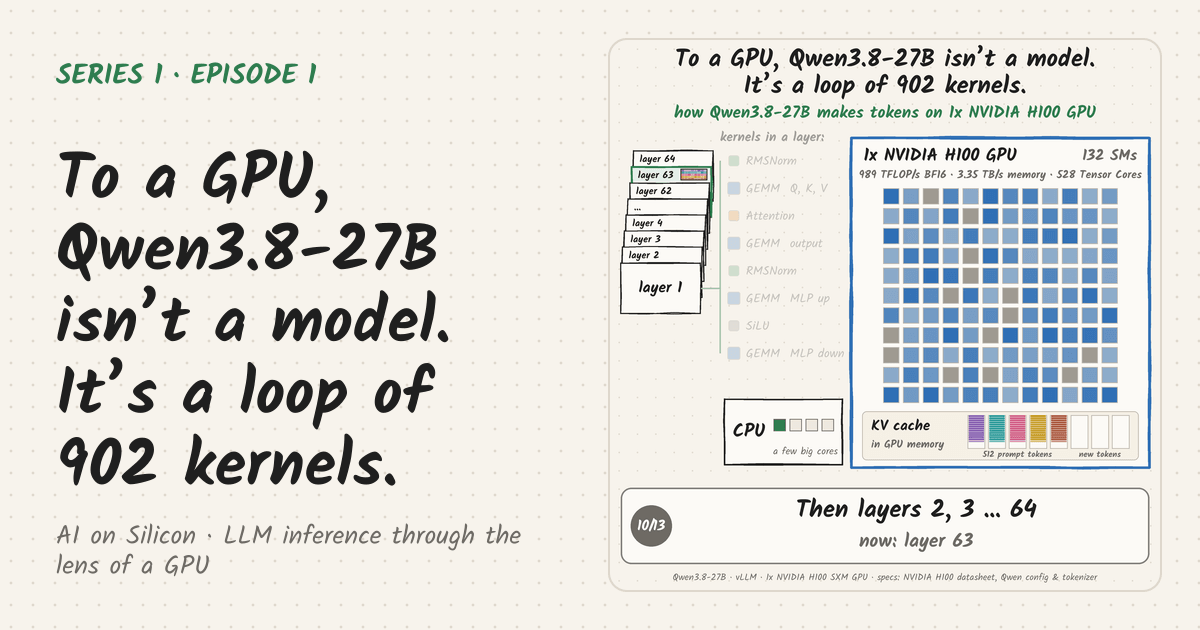
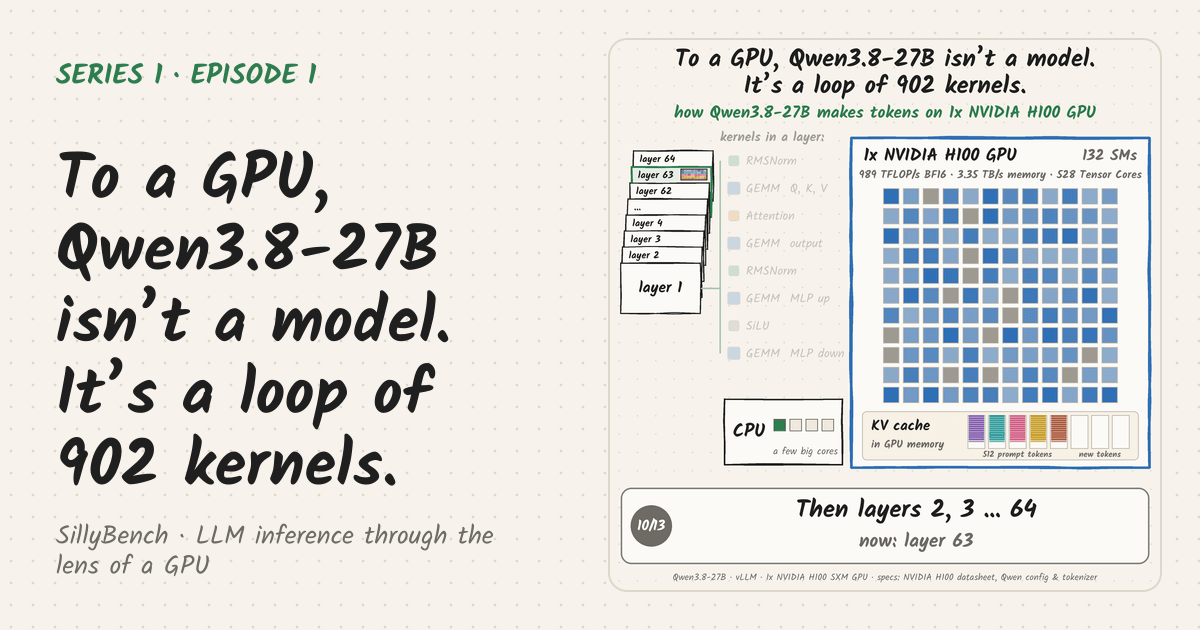
Rename the website to SillyBench

Changed region(s): [[0.0308, 0.8143, 0.4317, 0.8746]]

diff --git a/src/site.config.ts b/src/site.config.ts
@@ -2,7 +2,7 @@
 // Empty strings switch a feature off (the page then hides it).
 
 export const SITE = {
-  name: 'AI on Silicon',
+  name: 'SillyBench',
   tagline: 'Understand LLM inference by visualizing it on real hardware.',
   description:
     'LLM inference through the lens of a GPU: every number measured on real hardware, every claim sourced, every result reproducible from a public repo.',

diff --git a/README.md b/README.md
@@ -1,4 +1,4 @@
-# AI on Silicon
+# SillyBench (website)
 
 The website for my GPU-inference series. **Series 1: LLM inference through the lens of a GPU.** Each LinkedIn post
 becomes an *episode* page with everything LinkedIn can't hold:
